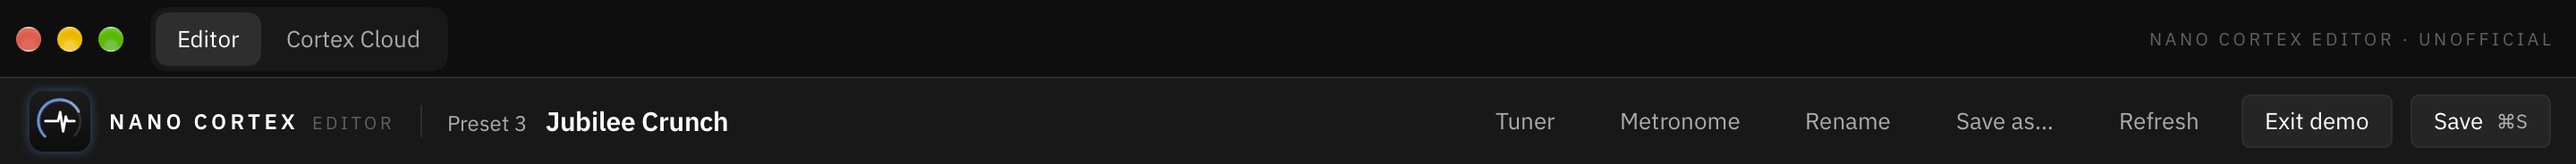
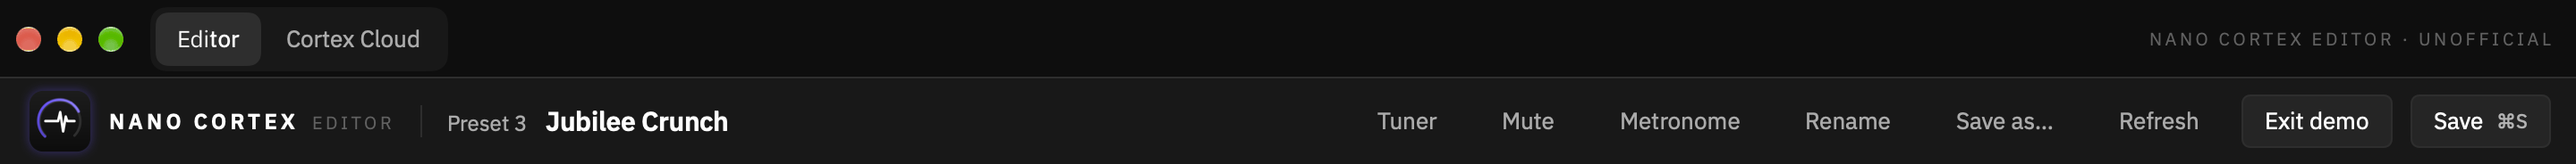
docs: live sync, monitoring and preset reorder in the manual, protocol notes, changelog, plan
Manual sections in the Electron edition's wording (header Mute, reordering, changes on the pedal,
the tuner's mute, Settings > Device > Monitoring), PROTOCOL-NOTES section 14 and the monitoring rows
of section 13, CHANGELOG Unreleased, PLAN row 37 and session log, DECISIONS #26-#29, the new dev
remote endpoints and hidden test instances in CLAUDE.md; header and Device screenshots retaken.

diff --git a/PLAN.md b/PLAN.md
@@ -54,7 +54,7 @@ IBM Plex Sans, purple #6954FF for actions, Quad Cortex category colours for bloc
 | 19 | [ ] Undo and A/B: undo the last edits; toggle saved vs edited sound before committing (built on the restore replay) | Opus | Demo: A/B toggles the packets back and forth |
 | 20 | [~] Device page (Settings → Device): About from 46/47 + 91/92 (name, firmware build, serial, hash), LED brightness (67.4 ↔ 66.6, shown as %) and USB playback volume (67.14 ↔ 66.17, −20…0 dB, typeable), written together like the phone app and coalesced; read-only raw line of 66; capture "Info…" popover (17/18) from the capture node and the capture slot menu. Decoded from the 2026-10-09 phone trace (PROTOCOL-NOTES §13). Left: ⚠ one try on the pedal (brightness visibly changes, USB volume audible, read-back), mapping of the other settings fields | Fable | Demo via the dev remote (`/device`, `/captureinfo`): 6 rapid brightness writes → 3, read-back matches; screenshots of the section and the popover; `DeviceTests` pin bodies/parses to the trace |
 | 21 | [x] Parity leftovers in the native app: session recording (Record in the status bar → JSON like Electron's), keyboard shortcuts sheet (?), Refresh button. 2026-10-09: done (PR feature/native-parity); demo-verified via the dev remote, UI smoke covers the sheet | Opus | Demo + UI test |
-| 22 | [ ] Rearrange presets by drag and drop (official app has it) — ⚠ needs one phone-app trace of a single drag, then decode, both apps | Fable | Trace decoded; order persists after power cycle |
+| 22 | [>] (see row 37) Rearrange presets by drag and drop (official app has it) — ⚠ needs one phone-app trace of a single drag, then decode, both apps | Fable | Trace decoded; order persists after power cycle |
 | 23 | [x] Settings window (⌘,): accent colour (Cortex Control palette + blue, applied live; Dock icon and header mark follow it, toggle), metronome output/volume/default tempo/beats/click sound (Click, Woodblock, Tick, Beep, Cowbell, synthesized), connect at launch + forget the remembered pedal, Activity log reveal + drawer at launch, dev-remote port (debug). Header mark 26 → ~34 pt. 2026-10-09: PR feature/settings; demo-verified over the dev remote. Electron parity not done | Opus | `/settings?accent=orange` + `/shot` (orange Save and selected row), `icon=` PNG, relaunch keeps it, `sounds=1` stats differ per sound; UI smoke opens ⌘, |
 | 24 | [x] Advanced metronome (Anup, 2026-10-09): Simple / Advanced switch in the overlay (Settings → "Opens in", last Advanced setup remembered); time signature 1–16 over 4/8/16, accent cells (accent/normal/soft/mute) with meter presets, subdivisions 2/3/4 with swing, count-in 0–2 bars, tempo trainer (+N BPM every M bars to a target), gap trainer (play N, mute M), Levels… popover (accent, main, subdivisions; also in Settings), bar counter and sub pips. Engine: pure `MetronomePattern.events` + bar-boundary trainers; new `NanoCortexEditorTests` unit target. Electron parity not done | Fable | Unit tests 8 green; dev remote: 5/4 (3+2) triplets 3 s, gap trainer muted bars, ramp tempo steps; screenshots of Simple, Advanced, Levels |
 | 25 | [x] Metronome ↔ preset tempo sync (Anup): decoded from the 2026-10-09 phone-app trace (type 145 live/preset writes, state field 56); inspector Tempo control (drag label, − / +, typeable, Tap; live while moving, one preset write when it settles, Save commits); Settings → Metronome "Follow the preset tempo" (default off): the metronome shows and follows the preset tempo and writes its changes back. 2026-10-09: PR feature/preset-tempo. Electron in parallel | Fable | Golden tests against the trace; demo over the dev remote; ⚠ one try on the pedal |
@@ -71,12 +71,41 @@ IBM Plex Sans, purple #6954FF for actions, Quad Cortex category colours for bloc
 | 10 | [>] Nano presets from Cortex Cloud — DEFERRED: needs a phone-app trace of a preset download (same as the Electron repo's queue) | Fable | — |
 | 35 | [x] Remember only a ready pedal (2026-10-20, review of `BluetoothTransport`; parity with the Electron fix for its issue #15): `pedal.identifier` is written once A002/A003 gave C304 + C305 and notifications are on, no longer on `didConnect`; a discovery without them fails the connect ("… isn't a Nano Cortex"), disconnects, forgets the device if it was the remembered one and skips it for the session; discovery and notification errors fail the connect with the error; 10 s from link-up to ready, then cancel and an error (nothing forgotten); `didFailToConnect` retries the same device 3 times, then scans afresh if it was the remembered one, then gives up; an automatic reconnect retries a failed setup 3 times, then gives up (`onFailed` → connect card). Cancel now ends a waiting `connect()`; a drop during setup no longer starts two sessions. Pure `GattSetup` + `LinkPolicy` (`PedalLink.swift`); the status bar truncates a long connect error. DECISIONS #24. Electron: its PR #16 | Opus | `PedalLinkTests` (17: ready / not-a-Nano / error verdicts, remember and forget, retry → scan → give up, the UserDefaults keys, messages); app unit 34 + core 60 green; second demo instance: long error on the card and status bar; ⚠ on the pedal: connect, power-cycle reconnect, Settings → Forget, then Connect |
 | 36 | [x] Custom metronome sounds (Anup, 2026-10-20): Settings → Metronome → Sounds replaces the single Click sound bar with one row per role (Accent, Main beat, Subdivision; soft beats and count-in reuse them): a menu of the built-in sounds plus "Custom sample…" (open panel), ▶, and with a sample its file name and Reset. A sample is checked (decodable by `AVAudioFile`, ≤ 5 MB), trimmed to 2 s (toast), mixed to mono at 48 kHz once and copied to `Application Support/Nano Cortex Editor/Metronome Sounds/<role>.<ext>`; a missing or unreadable copy at launch falls back to the built-in sound (log line, one toast). Sounds end where the next event starts and each event's first 10 ms carries the indicator callback (DECISIONS #25). Dev remote `/metro?sample=&file=|reset=1|builtin=|preview=1`. Formats checked: WAV, AIFF, CAF, M4A (AAC), ADTS AAC, FLAC, MP3. Electron: in parallel | Opus | `MetronomeSoundsTests` (11: formats, rate and mono conversion, trim with fade, refusals, settings round trip and legacy seed, copies, launch fallback, cut); app unit 52 + core 60 green (after rebasing onto row 34); demo instance: every format picked over the dev remote, a bar with all three roles on samples (`events=1`: `accent:sample`, `normal:sample` cut at the next click, `sub:sample`), indicator steps 1 s apart at 60 BPM with a 1 s main-beat sample, Reset and built-in picks delete the copy, relaunch with a missing and a garbage copy; UI smoke: the three rows (CI); ⚠ Anup: pick a sample of his own and listen |
+| 37 | [x] Port of the Electron edition's #14 (from @itsbreaded), part A (2026-10-20): **live pedal sync** (26 knobs, 99 FX parameters by slot and index, 31 bypasses incl. footswitch / expression switch / MIDI CC, 64 expression position with range, inversion and steps, FX Amount only where certain plus a 250 ms read-back, omitted zeros, one coalesced state read for bare 31 / 94 / unreadable reports; reports for a dragged knob wait for the gesture's end); **unsaved changes follow the pedal** (115 / field 41 is the mark, Save and Discard; the local `edited` flag is gone, only an in-flight guard for the prompts: queued, in flight or sent < 300 ms without a 115); **Monitoring** (Settings → Device: Mute Input / Mute Outputs 1L/2R, 67 field 12 / 13 explicit 0/1 → 68, 66 fields 15 / 16; header **Mute**, red while muted, read at connect; tuner close re-arms the mute off → on; pending and refusal states); **preset reorder** (drag a row onto another, 143 → 144, list and state read back, filter-proof absolute indices, list-only drags, refused while scanning or busy, the unsaved-changes prompt, unknown current preset after a failed read blocks Save / Save as / Discard / Rename; `prepareForPresetChange()` hook for the audition gate). NanoCore `LiveReports.swift`, App `PedalStore+Live.swift`, `PedalStore+Monitoring.swift`, `PresetReorder.swift`, `LiveMath.swift`; FakePedal answers 143/144 and the mutes and simulates pedal-side reports; dev remote `/live`, `/move`, `/mute`, `/fakehooks`, `/headless`; the dev remote now starts with the app (hidden test instances). DECISIONS #26–#29. Part B (Cloud IR, auditions, IR library) is a parallel port | Opus | `LiveReportsTests` (22: 26/31/64/94/99 with omitted zeros, 143 and 67 bytes, 66 read-back, move/expression/mute sessions on the fake pedal); `LiveMathTests` (16: travel, inversion, heel-toe ends, steps, amount choice, in-flight guard, gesture and bypass holds, filtered rows, refusals, unknown preset); app unit 68 + core 82 green; demo instance over the dev remote: every report kind, the drag hold, the in-flight prompt, mute bytes and the tuner re-arm, cancel / Don't save / Save moves, the unknown state, refusal during a scan, disconnect cleanup; headless screenshots vs Electron's; UI smoke (CI): Mute on/off, the Monitoring switches, a real drag of preset 5 onto 2; ⚠ hardware checklist in the PR |
 
 ## 7. Exit criteria
 Every row 1–9 `[x]`; the app passes the Electron UX-test checklist by hand on the real pedal; reconnect after power-up
 needs only the pedal's EXIT+CAPTURE press.
 
 ## Session log (newest first)
+
+### 2026-10-20 — Live pedal sync, pedal-driven unsaved changes, monitoring, preset reorder (row 37)
+**Step:** 37 · **Model:** Opus
+**Did:** Ported part A of the Electron edition's #14 (from @itsbreaded; Electron staging is the spec). NanoCore parses the
+live reports (`LiveReport`, `LiveControl`), builds the 143 move and the 67 mute writes, and reads 66 fields 15/16;
+`Session` emits `.live(report)` for unsolicited 26/31/64/66/94/99 (a 64 during an expression read is dropped) and has
+`isBusy`, `movePreset`, `writeMonitoring`. The store applies reports at once (`PedalStore+Live.swift`), holds them for a
+knob being dragged, coalesces context-free ones into one state read after the traffic in flight, animates expression
+targets and reads FX amounts back every 250 ms at most. `dirty` is the pedal's; `edited` is gone; `dirtyForPrompt` adds
+the in-flight guard. Monitoring (`PedalStore+Monitoring.swift`): Settings → Device section, header Mute, one 67 writer at a
+time shared with brightness/USB, read-back after each accepted write, revert and a note on refusal, the tuner re-arm.
+Reorder (`PresetReorder.swift`): rows drag with a private UTI declared in `project.yml`, prompt sheet, read-back, unknown
+state in the header and status bar. FakePedal: 143/144 (footswitches and the current preset follow), mutes, pedal-side
+reports, dirty that clears when an edit is put back, hooks (quiet 115, dropped state reads, write delay, refused 67).
+**Found:** a test instance launched with `open -g` never gets a window (SwiftUI waits for activation) and so had no dev
+remote; the owner now asks for hidden launches (`open -n -g -j`) and no `open -a`. The dev remote therefore starts with the
+app (DEBUG), and `/headless` renders the window's content or Settings in a window never ordered on screen. A reopen sent
+through LaunchServices by URL went to the installed app (same bundle id) instead of the test instance: never target test
+instances by URL or bundle id. During this session both my test instance and the owner's installed app were stopped by
+something outside this worktree around 12:04 and 12:06 (no crash report; I only stop my own by PID).
+**Tested:** core 82 (22 new) and app unit 68 (16 new) green; Debug build; demo instance (port 4869, hidden): knob, FX,
+bypass, bare-31 (3 → 1 read), 94, expression sweeps (≤ 1 read-back per 250 ms), the drag hold, the in-flight guard with
+a delayed write, mute bytes `08 C0 08 01 60 01 43 …` etc. and the tuner's off → on, refused 67, moves with cancel / Don't
+save / Save, a failed read → Preset ? with Save/Rename/Discard refused, refusal during a scan, disconnect clearing it all.
+Shared defaults restored exactly. UI smoke on CI only.
+**Decisions:** #26–#29.
+**Next:** ⚠ hardware checklist in the PR (Anup). Merge with the parallel part B: wire its `stopAnyAudition()` into
+`prepareForPresetChange()`, renumber this row / the DECISIONS if they collide.
 
 ### 2026-10-20 — Custom metronome sounds (row 36)
 **Step:** 36 · **Model:** Opus

diff --git a/DECISIONS.md b/DECISIONS.md
@@ -28,6 +28,11 @@
 | 23 | Updates through **Sparkle 2** (SPM, pinned `exactVersion` in `project.yml`): the standard updater controller and alert (Install Update / Skip This Version / Remind Me Later, release notes, download, verify, relaunch). Feed = an `appcast.xml` **release asset**, read from `releases/latest/download/appcast.xml` (GitHub redirects to the newest non-prerelease Release); `release.yml` makes it with `generate_appcast` (one item: this version's zip on its Release, EdDSA signature, length, the CHANGELOG section as Markdown notes) and checks it against the app's `SUPublicEDKey` (`scripts/verify-appcast.swift`). EdDSA private key: 1Password vault **Apple Signing**, Secure Note "Sparkle Update Signing Key", field `private key` (the release job reads it with the existing service account), plus Anup's login Keychain (`generate_keys --account nano-cortex-editor-mac`). Automatic checks on by default without Sparkle's permission prompt (`SUEnableAutomaticChecks`), daily (`SUScheduledCheckInterval`) plus one background check 5 s after launch (skipped if Sparkle checked within the minute); with `-demo` the updater is never started (UI tests, screenshots); Settings → Advanced switch bound to `automaticallyChecksForUpdates`. Sparkle's helpers are re-signed with the Developer ID in `release.yml` (its ad-hoc signatures would fail notarisation) and the signed app is launched once before zipping. `CFBundleVersion` stays the workflow run number, which Sparkle compares | Anup, 2026-10-20: tell users about new versions and install in one click, no website to host. Sparkle is the standard, EdDSA-verified, works outside the App Store; a release asset keeps everything on GitHub. 1.0.0 has no updater (those users download once by hand). Sparkle's alert keeps its "Automatically download and install updates" checkbox (its default; `SUAllowsAutomaticUpdates` NO would hide it). Ad-hoc *Release* builds no longer launch: with the hardened runtime (#7) library validation refuses the separately signed Sparkle.framework ("different Team IDs"); Debug builds and the Developer ID release are unaffected. Not done: `SUVerifyUpdateBeforeExtraction` / signed feeds (they rule out key rotation through Developer ID signing) |
 | 24 | The pedal is remembered (`pedal.identifier`) only once its link is ready: A002/A003 gave C304 + C305 and C305 notifications are on. Only a definitive "not a Nano" (discovery finished without them, on a device that wasn't ready earlier this session) forgets it and skips it for the session; errors, timeouts and dropped links forget nothing. 10 s from link-up (`didConnect`) to ready; no limit on waiting for the pedal to advertise. `didFailToConnect`: 3 tries, then a fresh scan if it was the remembered device, then stop; an automatic reconnect retries a failed setup 3 times. The rules live in `PedalLink.swift` (`GattSetup`, `LinkPolicy`) | Review 2026-10-20, and parity with the Electron fix for its issue #15: remembering on `didConnect` let a wrong device block every later Connect, and missing characteristics hung `connect()`. Forgetting on a transient error would also switch off connect-at-launch (it needs a remembered pedal). Waiting for adverts stays unlimited: after a power-up the pedal only advertises once EXIT + CAPTURE is held, and the card already says "Still trying…" |
 | 25 | Metronome sounds per role (Anup, 2026-10-20): Accent, Main beat and Subdivision each play a built-in sound or the user's sample; Settings' single "Click sound" bar became these three rows (seeded from the old `metro.sound`; `metro.sounds` JSON). Soft beats share the main beat's sound and count-in bars use accent and main beat, so there is no fourth row. Picking a built-in sound in a row drops that row's sample (its copy is deleted), like Reset. The picked file's bytes are copied to `Application Support/Nano Cortex Editor/Metronome Sounds/<role>.<ext>` and decoded at each launch (mono by averaging the channels, the engine's 48 kHz, no normalising, the first 2 s with a 5 ms fade; ≤ 5 MiB). A missing or unreadable copy at launch clears that row's sample (log line, one toast) and deletes an unreadable copy. Every sound, built-in or sample, ends where the next event starts (5 ms fade), and each event is two contiguous buffers: the first 10 ms carries the completion callback, the rest follows; the scheduler hands an event to the player once the next one is placed (still at least a beat ahead) | An `AVAudioPlayerNode` plays one buffer at a time: a buffer scheduled while an earlier one sounds interrupts it and the earlier one resumes afterwards, its completion arriving late and out of order (offline render, 2026-10-20). Uncut, a 2 s sample would stutter and the beat indicator would lag by the sample's length; cutting at the next click keeps the onsets and the indicator exactly as before. Clearing a missing sample means one toast, not one every launch; copying the original (not the decoded audio) keeps the user's file as it was |
+| 26 | Live pedal sync (Electron #14, from @itsbreaded): NanoCore parses the unsolicited 26/31/64/66/94/99 into `LiveReport` (a missing field is 0; a 26 needs 1:1 and 6:1, else the state is read again); the store applies them at once. The pedal's 115 / field 41 alone drives the unsaved-changes mark, Save and Discard; the local `edited` flag is gone. The prompts (switch, assign, move, scan) also count an edit write queued, in flight or sent < 300 ms ago with no 115 since (`EditGuard`). Reports for a knob being dragged are held, and dropped when the gesture ends (the user's committed value is what the pedal gets) plus 250 ms for older values on their way; a bypass click not yet sent (+ 300 ms) wins over an older 31. Context-free reports (bare 31, 94, an unmapped or unreadable report) make one state read 150 ms after the last, once `Session.isBusy` clears; a preset load cancels it. 31 for the gate's enable slot is read back, as in Electron. FX Amount moves on screen only for Mix / Amount / Transpose → Semitones; the assigned FX blocks that are on are read back at most every 250 ms | Electron staging is the spec; applying in the store keeps NanoCore headless and testable. Dropping a held report rather than applying it after release: applying an older value after the user's final write would show something the pedal no longer has. Waiting for `isBusy` instead of cancelling on "a read started" (Electron) costs at most one redundant read and needs no bookkeeping of who reads the state. Unverified on hardware whether the pedal echoes the app's own writes as 26 (the hold covers it either way) |
+| 27 | Monitoring writes (67 field 12 / 13, explicit 0/1) go one at a time through a gate shared with the brightness/USB writes, latest value per switch queued; each accepted write is followed by a 66 read; a switch flips at once, goes back if the pedal refuses (68 status ≠ 1) or the write fails, and Settings says so ("The pedal didn’t take …"). The mutes are read at connect (that first read also gives the brightness/USB sliders the pedal's values); an unasked 66 updates them; a pending switch keeps its value until a read shows it. Tuner close re-arms an input mute like Electron (off, then on 100 ms after that write, unless the user changed it) | A 68 doesn't say which 67 it answers, so two writers could take each other's acks. Electron sends without waiting; one at a time gives the same sequence on the wire for the toggles and the tuner re-arm. The refusal note is ours (Electron only reverts) |
+| 28 | Preset reorder by SwiftUI drag and drop: rows carry a private type `com.community.nanocortex.preset-row` (exported in `project.yml`), the drop must name the row the drag started on, so text from elsewhere never moves anything; the source row is cleared by watching the mouse button (SwiftUI reports no cancelled drag). The move asks `prepareForPresetChange()` first (true for now; the audition gate of the parallel Cloud/IR port goes there), then the unsaved-changes prompt (Cancel / Don’t save / Save and reorder), sends 143, ignores 115 until the read-back, reads the list and the state; a failed state read makes the current preset unknown (`PresetKnowledge`), which blocks Save, Save as, Discard and Rename until any state read succeeds. The demo pedal answers 143/144 and moves the current preset and the footswitch slots with their presets, so demo mode can reorder | Electron's behaviour and wording; the order and the current preset are always the pedal's. Footswitch behaviour after a move on the real pedal is unknown, hence the read-back and the manual's "check your footswitch assignments" |
+| 29 | Debug builds start the dev remote with the app, not with its window; `/headless` renders the window's content (or Settings) into a window that is never ordered on screen and closes it after the shot | Anup, 2026-10-20: test instances must launch hidden (`open -n -g -j`) and never be activated (no `open -a`, no AppleScript). Such an instance gets no window, so the old window-bound dev remote never came up. Never address a test instance by URL or bundle id (LaunchServices picks the installed app with the same id) |
+
 ## Deferred ideas
 - SwiftProtobuf with hand-written `.proto` files, if the message set grows large.
 

diff --git a/docs/PROTOCOL-NOTES.md b/docs/PROTOCOL-NOTES.md
@@ -277,7 +277,7 @@ Implementation: `NanoCore/Sources/NanoCore/Expression.swift`, golden tests in `E
 | Type | Dir | Body | Meaning |
 |---|---|---|---|
 | 60 | tx | `{1: 3, 3: presetIndex}` | Read the preset's set. `08 03 18 3D` = index 61 |
-| 64 | rx | `{1: 1, 3: 2}` | Notice between 60 and 61; also streams `{1:1 5:1}` / `{1:1 3:1 5:1}` in capture mode. Meaning unknown, ignored |
+| 64 | rx | `{1: 1, 3: 2}` | Between 60 and 61 (ignored while a 60 is outstanding); otherwise `{1:1 3:2 4:position}` is the expression pedal's position (§14). `{1:1 5:1}` / `{1:1 3:1 5:1}` stream in capture mode, ignored |
 | 61 | rx | `{1: 1, <records at save field − 1>}` | The set; `{1: 1}` alone = none (trace). The −1 shift is upstream's only |
 | 62 | tx | `{3: presetIndex, <records>}` | Replaces the **whole** set; `{3: presetIndex}` alone clears it |
 | 63 | rx | `{1: 1, 3: 1}` | Ack, 3 = ok (one per 62) |
@@ -350,7 +350,9 @@ rx 68  { 1: 1, 3: 1 }                                  3 = ok, one per 67
 | 14 (f32 dB) | 17 | **USB playback volume**; swept −13.9…−5.5, ended −6.0, the manual's default | confirmed shape, meaning by value/default (exposed) |
 | — | 5 | Device name | confirmed (read-only here) |
 | 9 | 12 | Toggle; 9:0 made the pedal re-send its preset (rx 29); state field 37 present ↔ 1. Candidate: 4-/2-preset mode | **unverified** |
-| 7, 8, 12, 13, 18 | ? | Booleans | **unverified** |
+| 12 (varint, explicit 0/1) | 15 | **Mute Input** (the Guitar Input; USB input still plays) | confirmed (Electron #14; exposed) |
+| 13 (varint, explicit 0/1) | 16 | **Mute Outputs 1L/2R** (the processed sound; USB playback still plays) | confirmed (Electron #14; exposed) |
+| 7, 8, 18 | ? | Booleans | **unverified** |
 | 15 | ? | 3-way choice (MIDI clock source?) | **unverified** |
 | 16 | ? | 4-way choice | **unverified** |
 | — | 7, 8, 11, 13, 14 | 13 read 129, and 172 during capture mode | **unverified** |
@@ -358,8 +360,17 @@ rx 68  { 1: 1, 3: 1 }                                  3 = ok, one per 67
 The phone app sends 4 and 14 together in every write while either slider moves (≈85 ms apart), and nothing dirties
 the preset (no 115). Both editors do the same: only after a successful 65 read (so the other value is the pedal's
 own), one write in flight, newer values replace the queued one. 66 = 67 + 3 fits 9↔12 and 14↔17 but not 4↔6, so
-66 probably has an extra field between 6 and 12. Only 4 and 14 are exposed; the rest is a read-only "Raw settings"
-line.
+66 probably has an extra field between 6 and 12. Exposed: 4 and 14, and the two mutes; the rest is a read-only "Raw
+settings" line.
+
+Monitoring writes carry one field each, always with an explicit 0 or 1: Mute Input on/off
+`08 C0 08 01 60 01 43 00 00 00` / `08 C0 08 01 60 00 43 00 00 00`, Mute Outputs 1L/2R on/off `… 68 01 …` / `… 68 00 …`;
+the ack is `08 C0 08 01 18 01 44 00 00 00`. 66 reads them back with tags `78` (15) and `80 01` (16); left out = off.
+The 68 doesn't say which write it answers, so the editor sends one 67 at a time (brightness/USB writes included) and
+reads 66 back after each accepted mute. The tuner and Mute Input: the pedal still reports the input muted after the
+tuner closes, but its audio path needs a fresh off → on to mute again (seen on a pedal, Electron #14). Both editors note
+the mute when the tuner opens and, when it closes with the input muted, wait for the tuner-off write, 200 ms, send off
+and, 100 ms after that write, on again, unless the mute was changed meanwhile.
 
 ### Capture details: 17 → 18
 
@@ -372,3 +383,41 @@ Field 11 is byte-identical to state field 34 for the active capture and parses w
 (1 hash, 2 name, 4 author, 6 device type `amp_head`, 7 tags, 8 small int (gain type?), 10 instrument `guitar`,
 12 version `"1"`). 18.8 may be the description (empty on both captures seen; **unverified**); 17.5 = 1 is unknown.
 Seen: slot 1 "CA John's Ch1 1" (tags Mesaboogie, JP2C, Mesa, Boogie, John, Petrucci), slot 12 "Brit 2555 Rhy 12".
+
+## 14. Live reports and preset moves (contributed in the Electron edition's #14, firmware 2.2.1)
+
+Sources: a contributor's phone-app BLE captures (2026-10-14/15; not published) and their hardware tests, as written up in
+the Electron edition's `docs/INVESTIGATION.md` §12. Implementation: `NanoCore/Sources/NanoCore/LiveReports.swift`
+(parsing, the 143 frame, the 67 mute writes; `LiveReportsTests`), `App/Sources/PedalStore+Live.swift` (applying them),
+`App/Sources/PresetReorder.swift` (moves). Protobuf leaves zero values out, so a missing field means 0.
+
+**Live reports (pedal → app, unsolicited).**
+
+| Type | Body | Meaning | Editor |
+|---|---|---|---|
+| 26 | `{1:1 3:control 4:raw 6:1}` | A knob moved: control 0 gain, 1 level, 2 bass, 3 mid, 4 treble, 10 capture volume, 11 gate (raw − 108 = reduction %) | applied; other controls → one state read |
+| 99 | `{1:1 3:FX slot 0–4 4:param index 5:raw 0–255 (f32)}` | An FX parameter moved; comes with a type-26 control 6 carrying the same raw value | applied by slot and index (raw / 255 → the parameter's range, on its step); the companion is dropped |
+| 31 | `{1:1 3:enable slot 4:0 on / 1 off}` | An FX block switched (enable slots 4–8 = Pre FX 1 … Post FX 3): footswitch, the expression pedal's switch, USB MIDI CC | applied, unless the user's own click is still unconfirmed |
+| 31 | `{1:1}` | Something changed | one coalesced state read (FX models kept) |
+| 64 | `{1:1 3:2 4:position 0–255}` | Expression pedal position (heel: field 4 left out) | amp knobs, capture volume and gate follow the assigned ranges (heel/toe raw 0–255, inverted swaps them); an FX Amount only where the parameter is known (Mix / Amount, Transpose → Semitones); heel-toe switches flip only at the ends (≤ 2, ≥ 253); a throttled (250 ms) read-back (137) of the assigned FX blocks that are on shows the rest |
+| 94 | — | A cab parameter changed | one state read |
+| 115 | `{1:1 3:dirty}` | Preset dirty state | the only source of the unsaved-changes mark (plus an in-flight guard for the prompts) |
+
+Reports for a control the user is dragging wait: the user's value is written at the end of the gesture and wins (and a
+report up to 250 ms after it is dropped as an older value). Several reports without context make one state read, after
+the reads and writes in flight; a preset load drops it. A 66 the pedal sends unasked updates the mutes.
+
+**Preset move.** One message moves a preset by insertion (the presets in between shift by one); indices are 0-based and
+absolute (a filtered list changes nothing):
+
+```
+143 { 1: 4, 3: <from>, 4: <to> }          e.g. 5 → 3: 0A C0 08 04 18 04 20 02 8F 00 00 00
+144 { 1: 6, 3: <from>, 4: <to>, 5: 1 }    5 = 1: moved
+```
+
+Then the editors read the preset list (the metadata read) and the state again. The pedal sent 115 dirty then clean around
+one move; the editors ignore 115 while a move is outstanding and take the dirty state from the state read after it.
+Observed moves: 5 → 3 and 36 → 6. How footswitch assignments and the current preset follow a move is read from the pedal
+afterwards, not assumed (the demo pedal moves both with their presets). A failed or unconfirmed move ends with the order
+read from the pedal; if the state read fails, the current preset is unknown and Save, Save as, Discard and Rename stay off
+until a read succeeds. A left-out 144 field reads 0 in both editors.

diff --git a/docs/MANUAL.md b/docs/MANUAL.md
@@ -82,17 +82,19 @@ in the header ends it.
 
 ### Tab bar
 
-<img src="images/header.png" alt="The tab bar with Editor and Cortex Cloud, and the editor header with the preset name, Tuner, Metronome, Rename, Save as, Refresh, Exit demo and Save" width="1000">
+<img src="images/header.png" alt="The tab bar with Editor and Cortex Cloud, and the editor header with the preset name, Tuner, Mute, Metronome, Rename, Save as, Refresh, Exit demo and Save" width="1000">
 
 The top row switches between **Editor** (⌘1) and **Cortex Cloud** (⌘2). Drag the window by its empty parts.
 
 ### Header
 
-Left to right: the app mark, **Preset N** and its name (double-click the name to rename), *Unsaved changes* while you
-have edits, then **Tuner**, **Metronome**, **Rename**, **Save as…**, **Refresh** (re-reads everything from the
-pedal, ⇧⌘R), **Connect / Disconnect / Exit demo**, **Discard** (only while there are edits) and **Save**. Save turns
-the accent colour when there is something to save. In a narrow window the text buttons hide; they are all in the
-menus too.
+Left to right: the app mark, **Preset N** and its name (double-click the name to rename), *Unsaved changes* while the
+pedal reports unsaved edits, then **Tuner**, **Mute** (the pedal's guitar input, see [Monitoring](#monitoring); red while
+muted), **Metronome**, **Rename**, **Save as…**, **Refresh** (re-reads everything from the pedal, ⇧⌘R), **Connect /
+Disconnect / Exit demo**, **Discard** (only while there are edits) and **Save**. Save turns the accent colour when there
+is something to save. The unsaved-changes mark, Save and Discard follow the pedal's own report: put an edit back the way
+it was saved and the mark goes away. In a narrow window the text buttons hide; they are in the menus too (Mute is in
+Settings → Device).
 
 ### Preset sidebar and Footswitches strip
 
@@ -123,7 +125,8 @@ pedal. The **Tempo** control at the top right belongs to the preset (see [Tempo]
 <img src="images/statusbar.png" alt="The status bar: link LED and state, firmware, whether the preset matches the pedal, and Settings, Shortcuts and Support" width="1000">
 
 The link LED and state (green when connected), the pedal's firmware, and whether the preset matches what's saved on
-the pedal. On the right: **Settings**, **Shortcuts** and **♥ Support**, which opens the project's Buy Me a Coffee page
+the pedal (as the pedal reports it). After a preset move whose read-back failed it says *Current preset unknown: Refresh
+to read it* instead (see [Presets](#4-presets)). On the right: **Settings**, **Shortcuts** and **♥ Support**, which opens the project's Buy Me a Coffee page
 in your browser. With [Developer tools](#advanced) on, the bar also shows the last message sent ("Sent: …"),
 **Record** (session recording) and **Activity** (the protocol log, ⌘L).
 
@@ -163,6 +166,17 @@ was last saved:
 
 **Right-click a preset** for: **Load**, **Rename…**, **Save current sound here…** (or *over this preset…*, which
 opens Save as with that slot picked), **Assign to footswitch IA / IB / IIA / IIB**, and **Delete…**.
+
+**Reordering.** Drag a preset onto another row to move it there; the presets in between shift by one place (an
+insert, not a swap). It works with the filter on, too. With unsaved edits the editor asks first, as for a switch. After
+the move it reads the preset list and the current preset back from the pedal, so what you see is the pedal's order. If
+that read fails, the header shows **Preset ?** and Save, Save as, Rename and Discard stay off until a read succeeds
+(**Refresh**, or pick a preset). Check your footswitch assignments after moving presets. Reordering is off while a
+slot usage scan (**Usage…** in the Capture inspector) runs.
+
+**Changes on the pedal itself** show up as you make them: turning a knob, switching an effect with a footswitch (or the
+expression pedal's switch, or a MIDI CC over USB), or moving the expression pedal updates the knobs and lights in the
+editor. Effect amounts the expression pedal controls are read back from the pedal while it moves.
 
 ## 5. Editing blocks
 
@@ -265,7 +279,8 @@ edited: **Save** keeps it. The metronome can follow the preset tempo (see below)
 ## 9. Tuner
 
 **Tuner** in the header or **⌘T**. Play a note: the note name shows above the meter, and it turns green when you're
-within 3 cents. **Mute output** silences the pedal while you tune. **Done**, Esc, or a click outside closes it.
+within 3 cents. **Mute output** silences the pedal while you tune. **Done**, Esc, or a click outside closes it. If the
+guitar input was muted (header **Mute**) when you opened the tuner, it is muted again when the tuner closes.
 
 <img src="images/tuner.png" alt="The tuner overlay waiting for a note, with the Mute output switch and Done" width="414">
 
@@ -352,12 +367,17 @@ disconnects and makes the next Connect scan for a pedal again.
 
 ### Device
 
-<img src="images/settings-device.png" alt="Settings, Device: the pedal's name, firmware and serial, LED brightness 60 % and USB playback volume −6.0 dB" width="560">
+<img src="images/settings-device.png" alt="Settings, Device: the pedal's name, firmware and serial, LED brightness 60 % and USB playback volume −6.0 dB, and Monitoring with the Mute Input and Mute Outputs 1L/2R switches" width="560">
 
 Global settings of the pedal, read when you open the page: **About** (name, firmware build, serial), **LED
 brightness** (in %) and **USB playback volume** (−20 to 0 dB, typeable) for audio from the computer over USB. They
 apply on the pedal right away, not per preset. **Read again** re-reads them. With [Developer tools](#advanced) on,
 About also shows the pedal's hash, and **Raw settings** shows the other values the pedal reports, read-only.
+
+<a id="monitoring"></a>**Monitoring**: **Mute Input** mutes the guitar input (USB audio still plays) and **Mute
+Outputs 1L/2R** mutes the processed sound at the outputs. Also global, and nothing to save. The header's **Mute**
+button is the same switch as **Mute Input**; it is read from the pedal when you connect. If the pedal doesn't take a
+change, the switch goes back and the page says so.
 
 ### Advanced
 

diff --git a/CLAUDE.md b/CLAUDE.md
@@ -111,13 +111,13 @@ and `/record` too). Endpoints:
 - Other: `/drawer?on=`, `/stage?s=`, `/shot?file=` (window PNG; `&full=1` includes the title bar and traffic lights, `&target=cloud` the web view, `&target=popover` an open popover), `/resize?w=&h=`, `/hit?x=&y=` (which view takes a click at that window point)
 - Links: `/support` reports the URL the status bar's ♥ Support button opens (without opening a browser), the other outbound links (`Links.swift`), the Help menu's items and the About panel's credits; `/linkproblem?text=&error=` puts a connect problem / failed-connect line on the connect card (empty clears)
 - Settings: `/settings` dumps them (plus the app menu's items, the View menu's items, the shortcut sheet's rows, `devTools`/`showLog`/`recording`, and the window list); set with `accent=purple|teal|green|orange|yellow|red|blue`, `dock=0|1`, `sound=click|woodblock|tick|beep|cowbell`, `volume=`, `bpm=`/`beats=` (defaults), `connect=0|1`, `showlog=0|1`, `devtools=0|1` (shared `ui.devTools`: delete the key afterwards if it was absent), `opensin=simple|advanced`, `section=appearance|metronome|connection|device|advanced|about`, `open=1` (opens the window), `preview=1`, `forget=1` (clears the remembered pedal: shared UserDefaults, so restore `pedal.identifier` afterwards), `icon=/path.png` (writes the 1024 px recoloured icon), `sounds=1` (synth buffer stats); `/shot?target=settings&full=1&file=` screenshots the Settings window
+- Live sync, monitoring, moves (`DevRemote+Live.swift`): `/live` dumps dirty, `dirtyForPrompt`, edits in flight, the unknown preset, the expression position, the reports applied; the demo pedal sends what the real one would: `knob=gain|level|bass|mid|treble|capvol|gate&raw=0..255` (26), `fx=pre1..post3&i=&raw=` (99 + its 26 companion), `bypass=<slot>&on=0|1` (31), `exp=0..255` or `sweep=0-255&steps=&ms=` (64), `state=N` (N bare 31s), `cab=1` (94), `dirty=0|1` (115), `type=&hex=` (any frame); `drag=gain|capvol|gate&v=` / `&release=1` is a knob drag in the app. `/move?from=&to=` (0-based; `choice=save|discard|cancel` answers the prompt, `async=1` returns at once, `/move?choice=` answers one that is up, `preview=from,to` shows the drag styling, `preview=0` clears it). `/mute?input=0|1&outputs=0|1` (`read=1` re-reads 66). `/fakehooks?quiet=0|1&dropstate=0|1&refuse=0|1&delay=ms&reply=ms` (demo pedal: no 115 after edits, unanswered state reads, refused 67, write delay, reply delay). `/headless?view=main|settings&section=device&w=&h=&file=` renders the window's content (or Settings) offscreen: screenshots of a hidden instance
 - Updates: `/updates` dumps the updater (effective feed URL, automatic checks, `canCheck`, `sessionInProgress`, last check, whether background checks are allowed, visible windows); `check=1` runs "Check for Updates…" (contacts the feed; a Sparkle error dialog is modal and pauses the dev remote until dismissed), `auto=0|1` flips the Settings switch (Sparkle stores it as shared `SUEnableAutomaticChecks`: delete the key afterwards)
 Launch arguments: `-demo` connects to the fake pedal on launch, `-no-dev-remote` skips the listener (the UI tests use both).
-A second instance next to Anup's (never kill his): `open -n --env NANO_DEV_PORT=4850 "build/Build/Products/Debug/Nano Cortex Editor.app" --args -demo`, then `/demo`. Wait until the previous demo instance has exited before relaunching (the port stays bound otherwise), and size the window with `/resize?w=&h=` rather than `-window WxH`: with `-window` the dev remote sometimes never comes up (seen 2026-10-09).
+A second instance next to Anup's (never kill his), hidden and in the background (DECISIONS #29): `open -n -g -j --env NANO_DEV_PORT=4850 "build/Build/Products/Debug/Nano Cortex Editor.app" --args -demo -connect.atLaunch NO -ApplePersistenceIgnoreState YES`, then `/demo` (it has no window, so the window's `-demo` connect doesn't run). Screenshots through `/headless`. Never activate it (no `open -a`, no AppleScript; LaunchServices would also pick the installed app, same bundle id), stop it by PID when the check is done, one instance at a time. Wait until the previous demo instance has exited before relaunching (the port stays bound otherwise), and size the window with `/resize?w=&h=` rather than `-window WxH`: with `-window` the dev remote sometimes never comes up (seen 2026-10-09).
 Without `-demo`, the app connects at launch to the remembered pedal when Settings → Connection allows it (default on).
 A second instance shares the owner's UserDefaults (same bundle id): put back any setting you change.
-If a launched instance answers nothing on its port, it has no window yet (macOS did not let it activate while
-another app was in front): `open -a "<path>/Nano Cortex Editor.app"` sends a reopen and the window appears.
+A hidden instance has no window (SwiftUI waits for activation); the dev remote starts with the app all the same.
 
 ## Commands
 ```bash

diff --git a/CHANGELOG.md b/CHANGELOG.md
@@ -5,6 +5,15 @@ The release workflow copies the section of a version into its GitHub Release not
 
 ## [Unreleased]
 
+### Added
+- **Live sync with the pedal**: knobs, effect parameters, footswitch bypasses (and bypasses from the expression pedal's switch or a USB MIDI CC) and the expression pedal update the editor as they change on the pedal; the unsaved-changes mark follows the pedal's own report.
+- **Reorder presets** by dragging a row onto another (works with the filter on); the order is read back from the pedal.
+- **Monitoring** in Settings → Device: Mute Input and Mute Outputs 1L/2R; a header **Mute** button for the input, read from the pedal at connect.
+
+### Fixed
+- "Unsaved changes" stayed after you put your edits back the way they were saved: the mark, Save and Discard now follow the pedal's report.
+- Closing the tuner keeps the guitar input muted if it was (the pedal needs the mute re-applied).
+
 ## [1.1.0] - 2026-10-20
 
 ### Added
